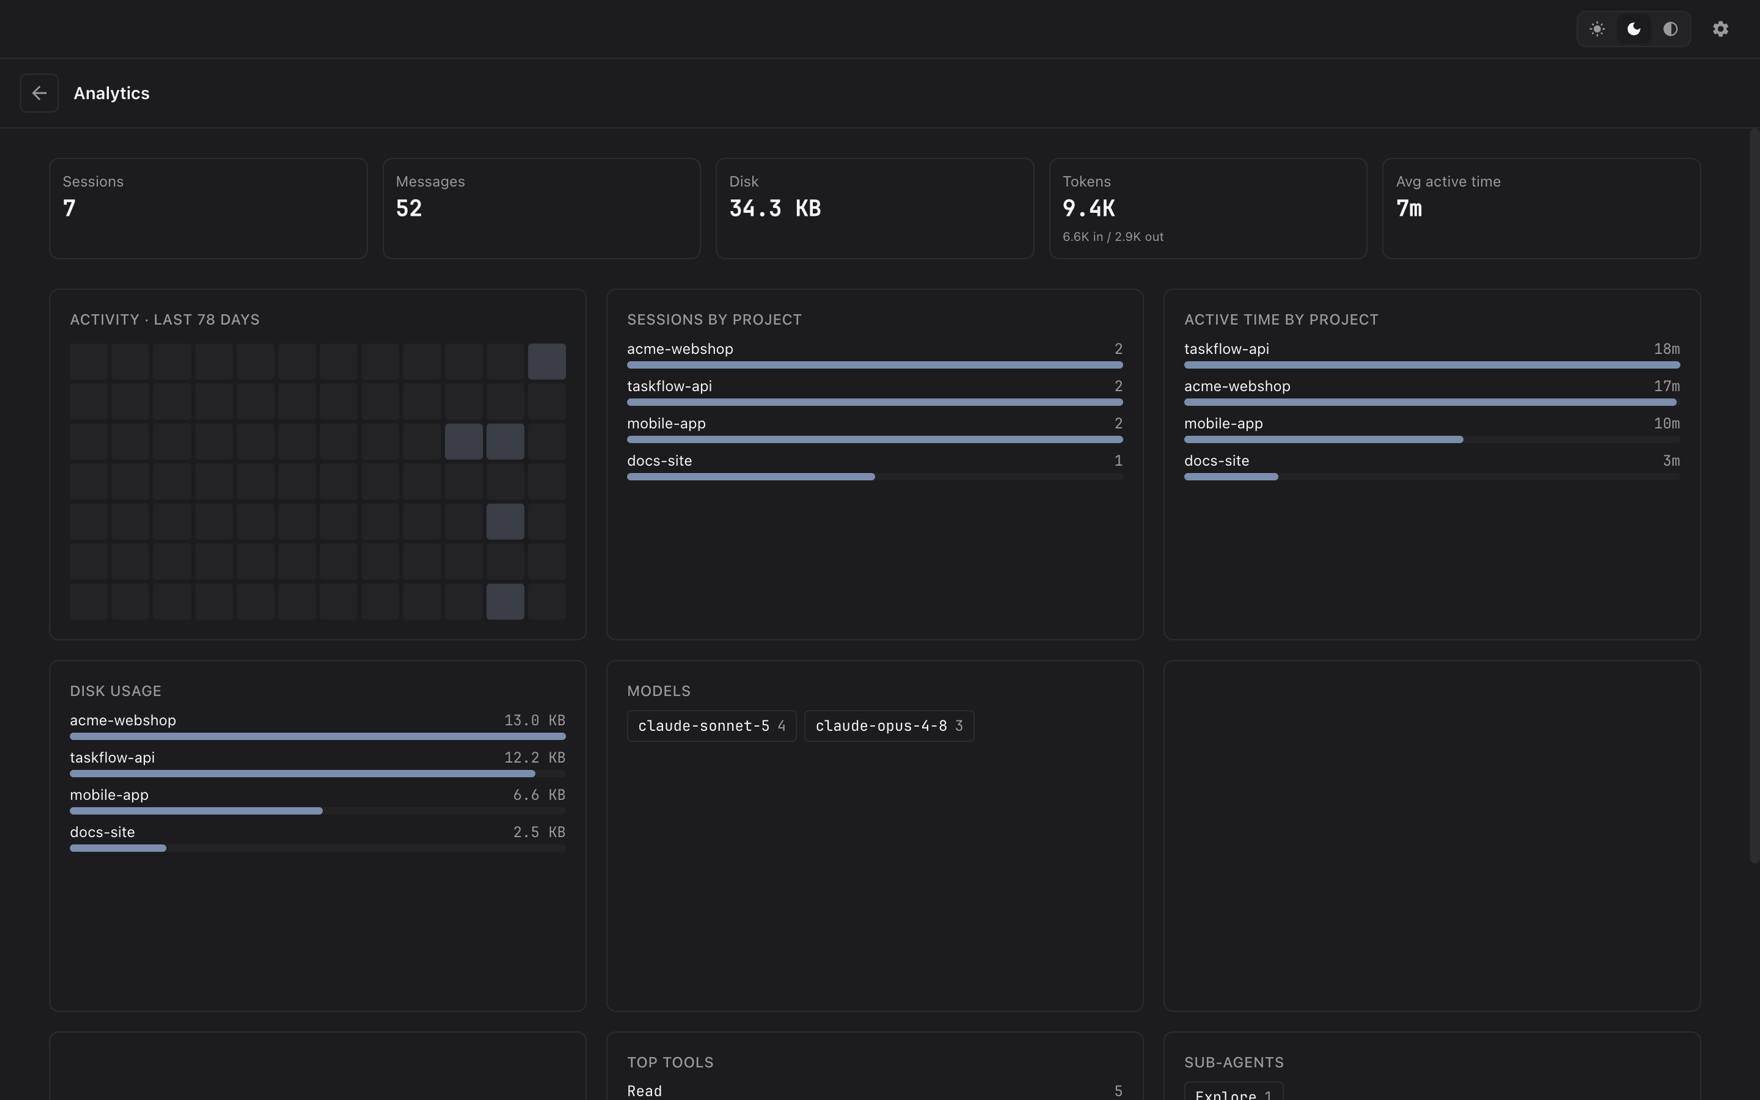
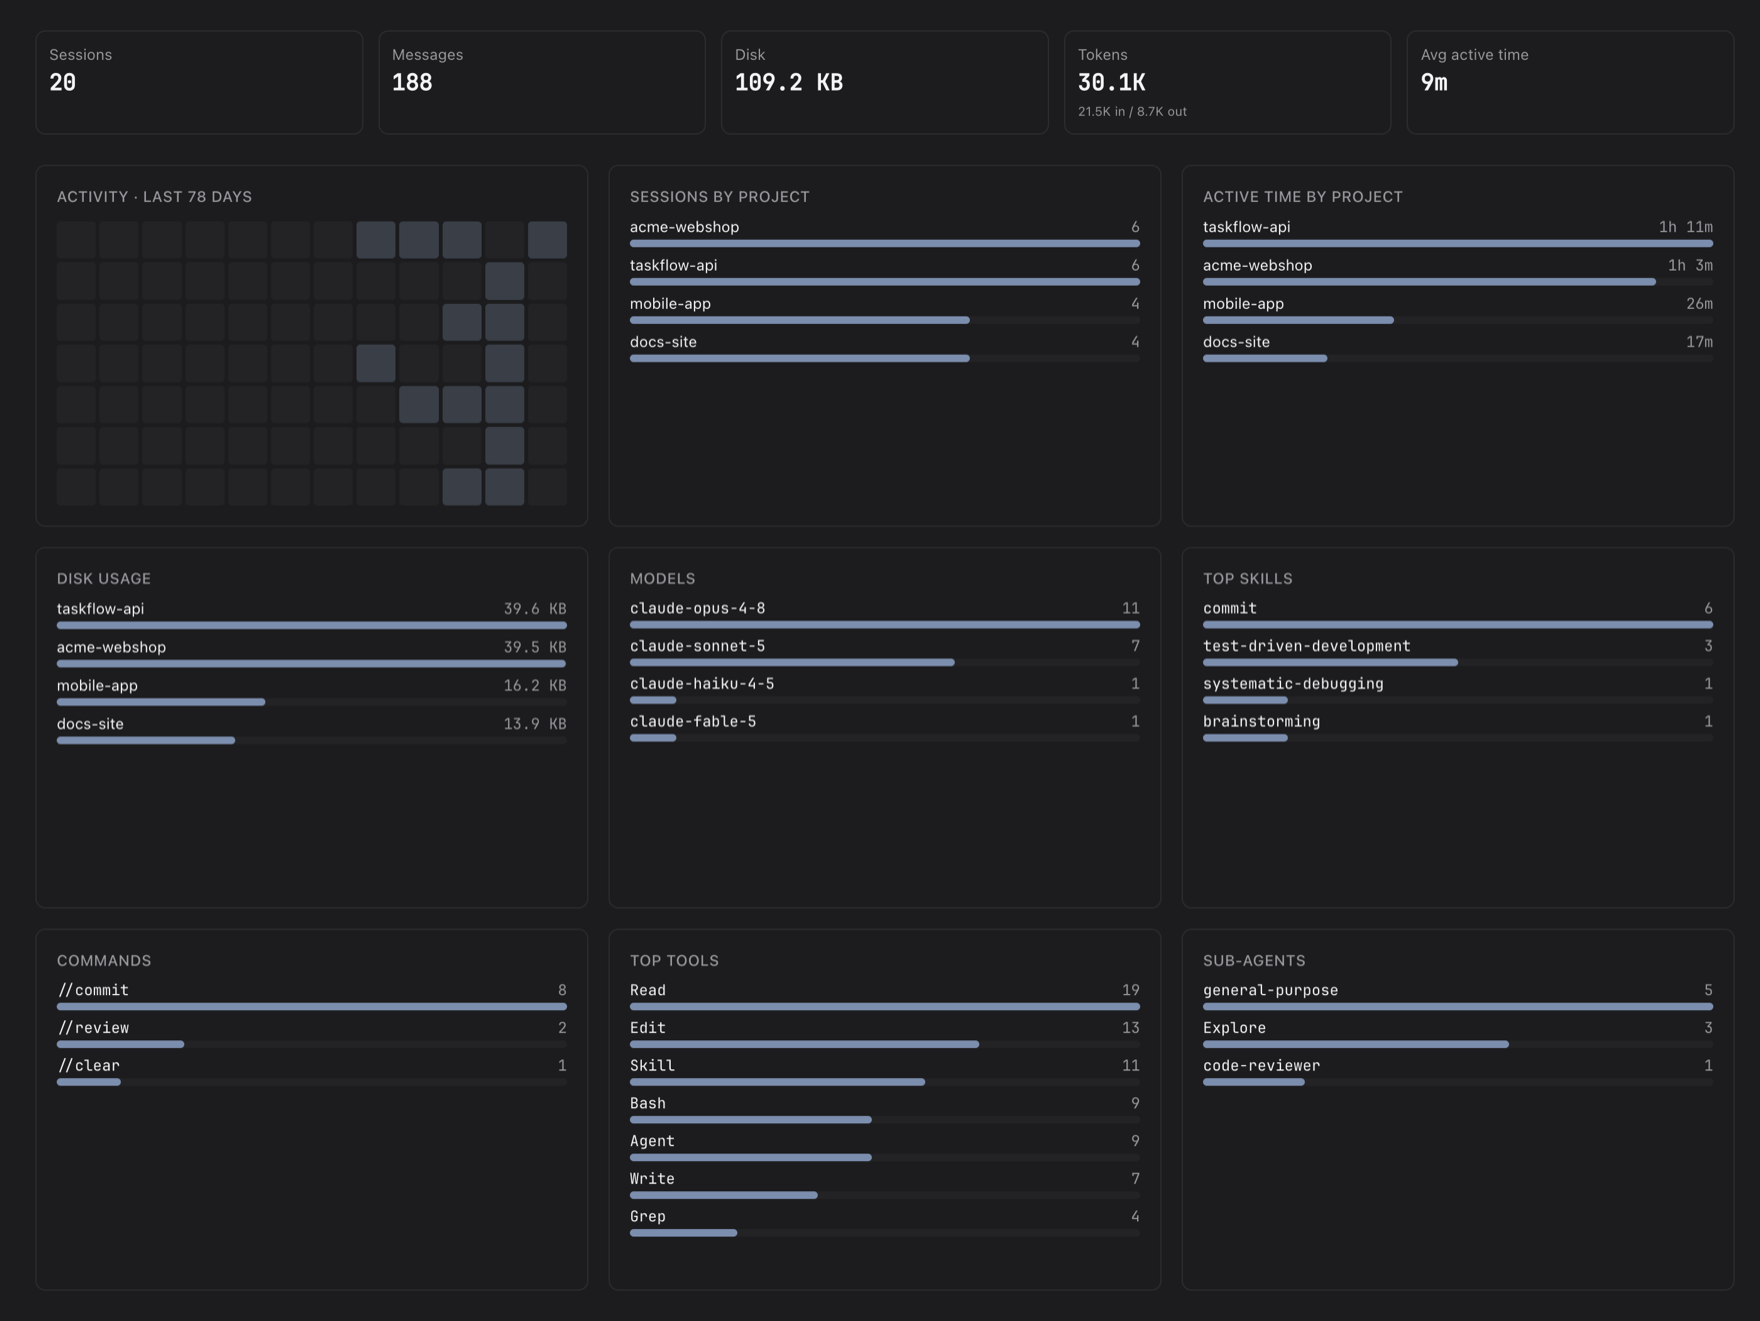
chore: deploy landing from sessary-app@7ee2cb6

diff --git a/index.html b/index.html
@@ -4,10 +4,11 @@
 <meta charset="utf-8" />
 <meta name="viewport" content="width=device-width, initial-scale=1" />
 <title>Sessary — browse your Claude Code sessions</title>
-<meta name="description" content="A native macOS app that turns your local Claude Code session logs into a fast, searchable library — conversations, tool calls, diffs, and usage analytics. All offline." />
+<meta name="description" content="A native macOS app that turns your local Claude Code session logs into a fast, searchable library — conversations, tool calls, diffs, and usage analytics. Built for terminal users. All offline." />
 <meta property="og:title" content="Sessary — browse your Claude Code sessions" />
-<meta property="og:description" content="A native macOS app for browsing, inspecting, and searching your Claude Code sessions. All offline." />
+<meta property="og:description" content="Your terminal forgets every Claude Code session. Sessary doesn't. Browse, search, and analyze your sessions — all offline." />
 <meta property="og:type" content="website" />
+<link rel="icon" type="image/svg+xml" href="assets/sessary.svg" />
 <link rel="preconnect" href="https://fonts.googleapis.com" />
 <link rel="preconnect" href="https://fonts.gstatic.com" crossorigin />
 <link href="https://fonts.googleapis.com/css2?family=Hanken+Grotesk:wght@400;500;600;700;800&family=JetBrains+Mono:wght@400;500;600&display=swap" rel="stylesheet" />
@@ -54,7 +55,6 @@
     -webkit-font-smoothing: antialiased;
     overflow-x: hidden;
   }
-  /* Atmospheric backdrop: radial accent glow + faint grid */
   body::before {
     content: "";
     position: fixed;
@@ -90,7 +90,6 @@
     color: var(--accent);
   }
 
-  /* Header */
   header {
     position: sticky; top: 0; z-index: 10;
     backdrop-filter: blur(12px);
@@ -98,9 +97,10 @@
     border-bottom: 1px solid var(--border);
   }
   .nav { display: flex; align-items: center; justify-content: space-between; height: 64px; }
-  .brand { display: flex; align-items: baseline; gap: 10px; font-weight: 800; font-size: 19px; letter-spacing: -0.02em; }
-  .brand .dot { color: var(--accent); }
-  .brand small { font-family: var(--font-mono); font-weight: 500; font-size: 11px; color: var(--muted); letter-spacing: 0.04em; }
+  .brand { display: flex; align-items: center; gap: 11px; font-weight: 800; font-size: 19px; letter-spacing: -0.02em; }
+  .brand img { width: 30px; height: 30px; display: block; }
+  .brand .dot { color: var(--accent); margin-left: -3px; }
+  .brand small { font-family: var(--font-mono); font-weight: 500; font-size: 11px; color: var(--muted); letter-spacing: 0.04em; margin-left: 2px; }
   .nav-actions { display: flex; align-items: center; gap: 18px; }
   .nav-actions .link { font-family: var(--font-mono); font-size: 13px; color: var(--muted); transition: color 0.15s; }
   .nav-actions .link:hover { color: var(--text); }
@@ -123,12 +123,11 @@
   .btn-ghost:hover { border-color: var(--accent); color: var(--accent); }
   .btn svg { width: 16px; height: 16px; fill: currentColor; }
 
-  /* Hero */
   .hero { padding: 96px 0 40px; text-align: center; }
   .hero .eyebrow { animation: rise 0.6s ease both; }
   .hero h1 {
-    font-size: clamp(38px, 7vw, 72px); line-height: 1.02; letter-spacing: -0.035em;
-    font-weight: 800; margin: 20px auto 0; max-width: 15ch;
+    font-size: clamp(36px, 6.4vw, 66px); line-height: 1.05; letter-spacing: -0.035em;
+    font-weight: 800; margin: 20px auto 0; max-width: 18ch;
     animation: rise 0.6s ease 0.05s both;
   }
   .hero h1 .grad {
@@ -137,15 +136,14 @@
   }
   .hero p.sub {
     font-size: clamp(16px, 2.2vw, 20px); color: var(--muted);
-    max-width: 56ch; margin: 26px auto 0; animation: rise 0.6s ease 0.12s both;
+    max-width: 60ch; margin: 26px auto 0; animation: rise 0.6s ease 0.12s both;
   }
-  .cta { display: flex; gap: 14px; justify-content: center; flex-wrap: wrap; margin-top: 36px; animation: rise 0.6s ease 0.18s both; }
-  .cta .meta { font-family: var(--font-mono); font-size: 12px; color: var(--muted); margin-top: 18px; animation: rise 0.6s ease 0.24s both; }
-  .cta .meta b { color: var(--text); font-weight: 500; }
+  .cta { display: flex; gap: 14px; justify-content: center; flex-wrap: wrap; margin-top: 38px; animation: rise 0.6s ease 0.18s both; }
+  .cta-meta { font-family: var(--font-mono); font-size: 12px; color: var(--muted); margin-top: 34px; animation: rise 0.6s ease 0.24s both; }
+  .cta-meta b { color: var(--text); font-weight: 500; }
 
   @keyframes rise { from { opacity: 0; transform: translateY(16px); } to { opacity: 1; transform: none; } }
 
-  /* Showcase */
   .showcase { padding: 40px 0 30px; }
   .frame {
     border: 1px solid var(--border); border-radius: var(--radius); overflow: hidden;
@@ -153,17 +151,17 @@
     animation: rise 0.7s ease 0.28s both;
   }
   .frame img { display: block; width: 100%; height: auto; }
+  .frame + .frame { margin-top: 22px; }
   .subshots { display: grid; grid-template-columns: 1fr 1fr; gap: 22px; margin-top: 22px; }
-  .subshots .frame { animation: none; }
+  .subshots .frame { animation: none; margin-top: 0; }
+  .subshots + .frame { margin-top: 22px; }
   @media (max-width: 720px) { .subshots { grid-template-columns: 1fr; } }
 
-  /* Sections */
   section.block { padding: 76px 0; }
   .head { max-width: 60ch; margin-bottom: 44px; }
   .head h2 { font-size: clamp(26px, 4vw, 38px); letter-spacing: -0.03em; font-weight: 800; margin-top: 12px; }
   .head p { color: var(--muted); font-size: 17px; margin-top: 12px; }
 
-  /* Features */
   .grid { display: grid; grid-template-columns: repeat(3, 1fr); gap: 20px; }
   @media (max-width: 860px) { .grid { grid-template-columns: 1fr 1fr; } }
   @media (max-width: 560px) { .grid { grid-template-columns: 1fr; } }
@@ -176,7 +174,6 @@
   .card h3 { font-size: 18px; margin: 12px 0 8px; letter-spacing: -0.01em; }
   .card p { color: var(--muted); font-size: 14.5px; }
 
-  /* Privacy band */
   .band {
     border: 1px solid var(--border); border-radius: var(--radius);
     background: linear-gradient(180deg, var(--accent-soft), transparent);
@@ -188,7 +185,6 @@
   .band .row span { display: inline-flex; align-items: center; gap: 8px; }
   .band .row .k { color: var(--accent); }
 
-  /* Install */
   .install { display: grid; grid-template-columns: 1fr 1fr; gap: 40px; align-items: center; }
   @media (max-width: 760px) { .install { grid-template-columns: 1fr; } }
   .term {
@@ -206,7 +202,6 @@
   .copy { margin-left: 10px; font-size: 11px; color: #6f7683; cursor: pointer; border: 1px solid rgba(255,255,255,0.14); border-radius: 6px; padding: 2px 8px; }
   .copy:hover { color: #fff; }
 
-  /* Footer */
   footer { border-top: 1px solid var(--border); padding: 40px 0; margin-top: 40px; }
   .foot { display: flex; align-items: center; justify-content: space-between; gap: 16px; flex-wrap: wrap; font-family: var(--font-mono); font-size: 13px; color: var(--muted); }
   .foot a:hover { color: var(--accent); }
@@ -216,7 +211,7 @@
 
 <header>
   <div class="wrap nav">
-    <div class="brand">Sessary<span class="dot">.</span> <small>for Claude Code</small></div>
+    <div class="brand"><img src="assets/sessary.svg" alt="Sessary logo" />Sessary<span class="dot">.</span> <small>for Claude Code</small></div>
     <div class="nav-actions">
       <a class="link" href="#features">Features</a>
       <a class="link" href="https://github.com/nortmas/sessary" target="_blank" rel="noopener">GitHub</a>
@@ -230,9 +225,9 @@
 
 <main>
   <section class="hero wrap">
-    <div class="eyebrow">Native macOS · Free</div>
-    <h1>Your Claude Code sessions, <span class="grad">finally browsable</span>.</h1>
-    <p class="sub">Sessary reads your local Claude Code session logs and turns them into a fast, searchable library — full conversations, tool calls, diffs, and usage analytics. Everything runs on your Mac.</p>
+    <div class="eyebrow">Native macOS · Free · For terminal users</div>
+    <h1>Your terminal forgets every Claude Code session. <span class="grad">Sessary doesn't.</span></h1>
+    <p class="sub">The desktop app shows your sessions — but if you run Claude Code in the terminal, they just pile up as JSONL logs you'll never open again. Sessary reads those logs and turns them into a fast, searchable library: full conversations, tool calls, diffs, and usage analytics. All on your Mac.</p>
     <div class="cta">
       <a class="btn btn-primary" href="https://github.com/nortmas/sessary/releases/latest/download/Sessary.dmg">
         <svg viewBox="0 0 24 24"><path d="M12 16l-5-5h3V4h4v7h3l-5 5zm-7 2h14v2H5v-2z"/></svg>
@@ -243,22 +238,23 @@
         View on GitHub
       </a>
     </div>
-    <p class="meta">macOS 10.12+ · <b>free</b> · one-click download · reads <b>~/.claude/projects</b></p>
+    <p class="cta-meta">macOS 10.12+ · <b>free</b> · one-click download · reads <b>~/.claude/projects</b></p>
   </section>
 
   <section class="showcase wrap">
-    <div class="frame"><img src="assets/screenshot-list.png" alt="Sessary session list — every Claude Code session across projects, searchable and sortable" /></div>
+    <div class="frame"><img src="assets/screenshot-list.png" alt="Sessary session list — every Claude Code session across projects, searchable, starred and tagged" /></div>
     <div class="subshots">
-      <div class="frame"><img src="assets/screenshot-viewer.png" alt="Conversation viewer with thinking blocks, tool calls and diffs" /></div>
-      <div class="frame"><img src="assets/screenshot-analytics.png" alt="Analytics dashboard — sessions, tokens, active time and per-project breakdowns" /></div>
+      <div class="frame"><img src="assets/screenshot-viewer.png" alt="Conversation viewer with thinking blocks, tool calls and sub-agents" /></div>
+      <div class="frame"><img src="assets/screenshot-files.png" alt="Changed files view with before/after diffs reconstructed from the log" /></div>
     </div>
+    <div class="frame"><img src="assets/screenshot-analytics.png" alt="Analytics dashboard — sessions, tokens, active time, models, tools and per-project breakdowns" /></div>
   </section>
 
   <section class="block wrap" id="features">
     <div class="head">
       <div class="eyebrow">What it does</div>
       <h2>Everything from your Claude Code logs, made legible.</h2>
-      <p>Claude Code stores every session as JSONL on disk. Sessary reads those files and gives them an interface.</p>
+      <p>Claude Code stores every session as JSONL on disk. Sessary reads those files and gives them an interface — no matter how you run it.</p>
     </div>
     <div class="grid">
       <div class="card">
@@ -274,7 +270,7 @@
       <div class="card">
         <div class="tag">analyze</div>
         <h3>Usage analytics</h3>
-        <p>Sessions, messages, tokens, active time, models, and per-project breakdowns. See where your Claude Code time goes.</p>
+        <p>Sessions, messages, tokens, active time, models, skills, and per-project breakdowns. See where your Claude Code time goes.</p>
       </div>
       <div class="card">
         <div class="tag">files</div>
@@ -344,14 +340,12 @@
 </footer>
 
 <script>
-  // Copy the first-launch command.
   var btn = document.getElementById('copyBtn');
   if (btn) btn.addEventListener('click', function () {
     navigator.clipboard.writeText(document.getElementById('cmd').textContent).then(function () {
       var t = btn.textContent; btn.textContent = 'copied'; setTimeout(function () { btn.textContent = t; }, 1400);
     });
   });
-  // Progressive enhancement: show the latest release tag in the footer (fails silently).
   fetch('https://api.github.com/repos/nortmas/sessary/releases/latest', { headers: { Accept: 'application/vnd.github+json' } })
     .then(function (r) { return r.ok ? r.json() : null; })
     .then(function (d) { if (d && d.tag_name) document.getElementById('relLink').textContent = 'Releases · ' + d.tag_name; })